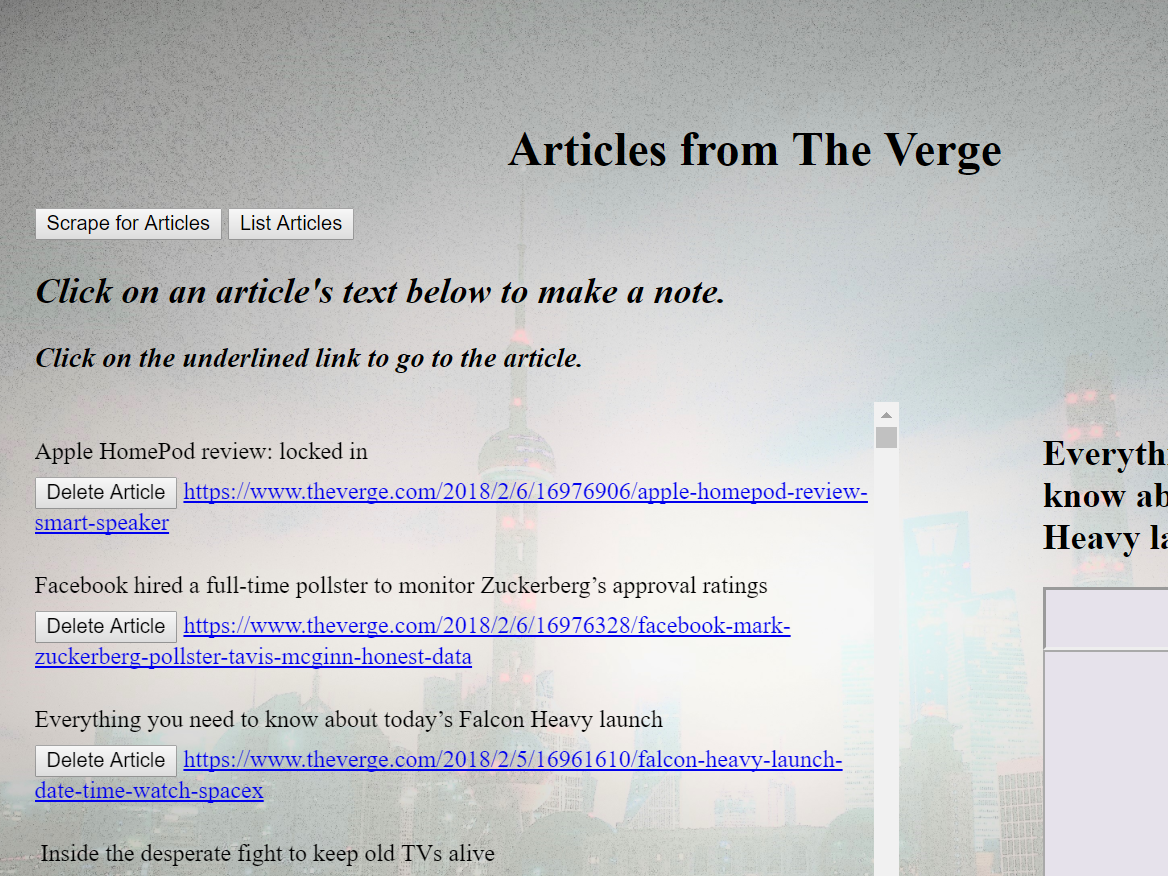
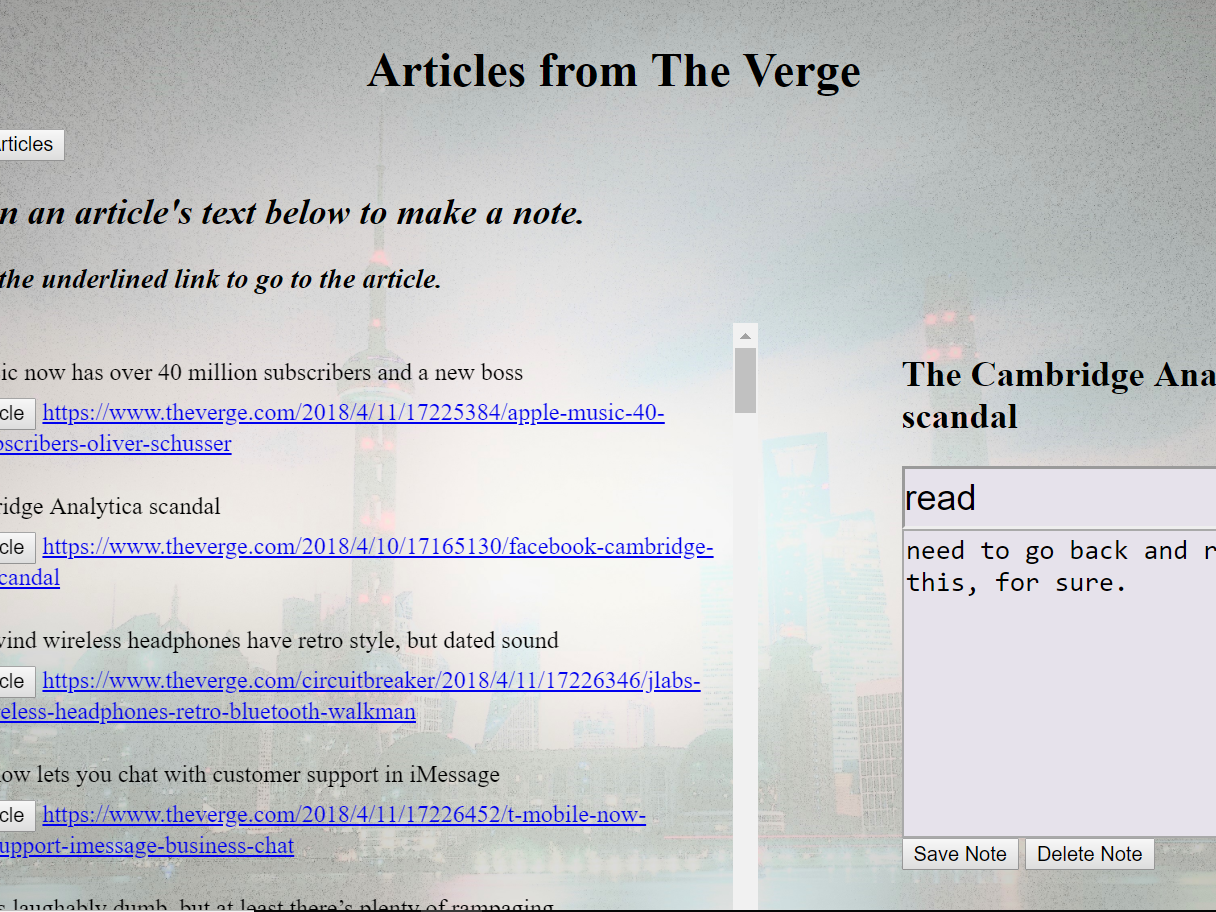
added newsscraper back

diff --git a/index.html b/index.html
@@ -137,8 +137,8 @@
 		</div>
 
 		<div class="row">
-<!-- remove offset when adding future links below -->
-			<div class="col-md-4 col-md-offset-2">
+<!-- add offset if removing or adding future links below -->
+			<div class="col-md-4">
 
 				<div class="center-block">
 
@@ -162,7 +162,7 @@
 
 			</div>
 
-			<!-- <div class="col-md-4">
+			<div class="col-md-4">
 
 				<div class="center-block">
 
@@ -172,7 +172,7 @@
 
 				</div>
 
-			</div> -->
+			</div>
 			
 		</div>
 
